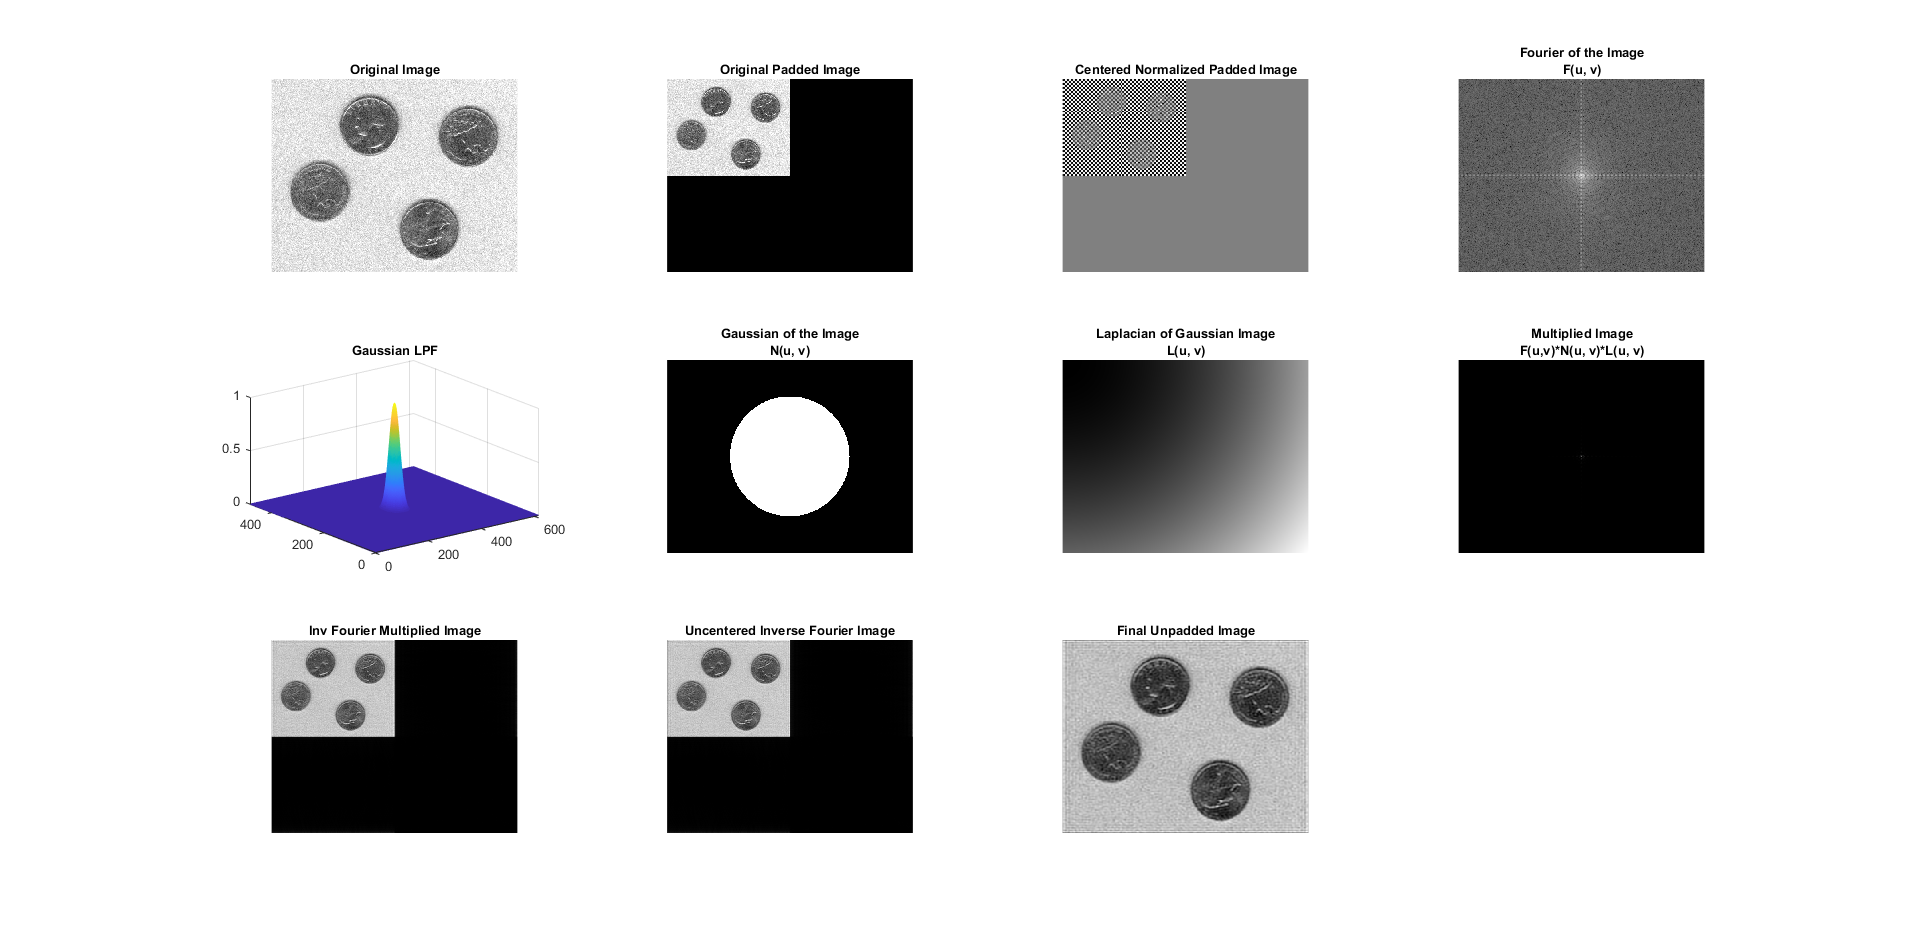
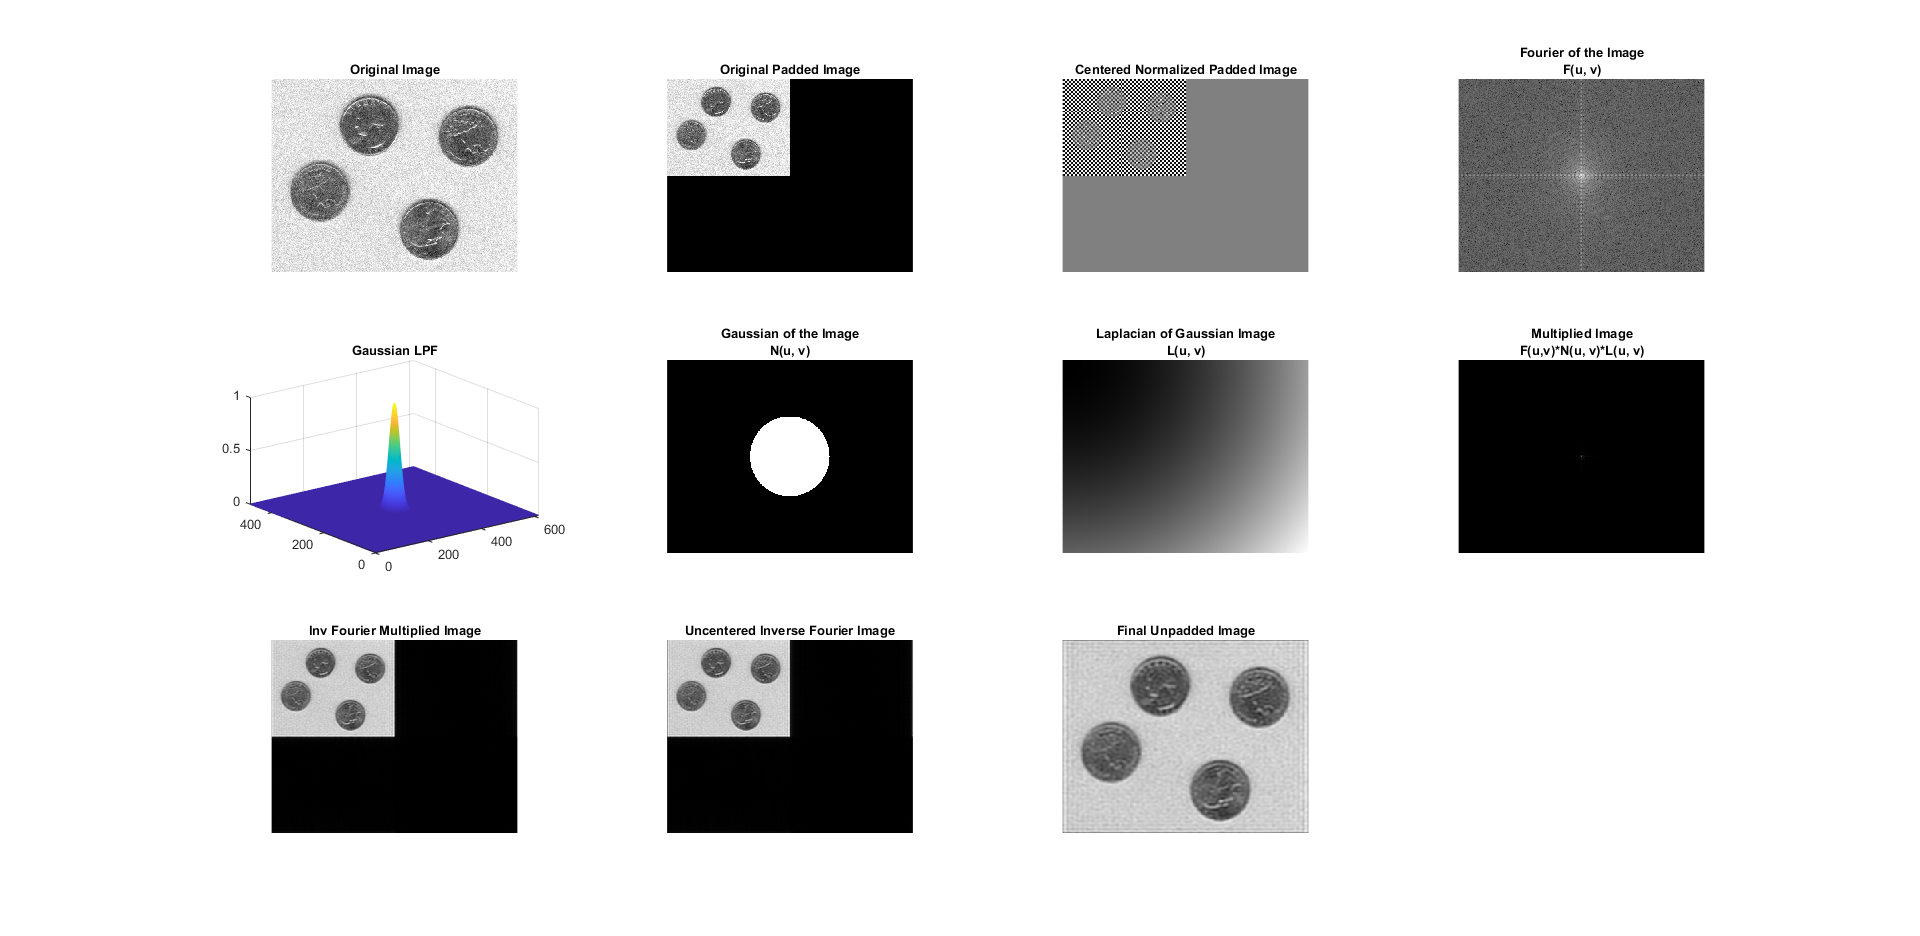
Add files via upload

diff --git a/Meola_ECE_5470_Homework_3.m b/Meola_ECE_5470_Homework_3.m
@@ -47,6 +47,7 @@ title('Original Image', 'FontSize', 8)
 [M_orig, N_orig] = size(f);
 
 
+
 % 2: Apply 2D zero padding to [orig_img]. Saves new padded image [f_padded].
 f_padded = padarray(f,[M_orig, N_orig], 0, 'post')
 [M_pad, N_pad] = size(f_padded);
@@ -55,6 +56,7 @@ f_padded = padarray(f,[M_orig, N_orig], 0, 'post')
 subplot(3, 4, 2)
 imshow(f_padded );
 title('Original Padded Image', 'FontSize', 8)
+
 
 
 % 3: Normalize the image intensity values from [0, 1].
@@ -122,13 +124,14 @@ subplot(3, 4, 5);
    
 % Allocate space for image:
 N = zeros(size(F));
+D = zeros(size(F));
    
 % Loop over all rows and columns:
 for ii=1:M_pad;
     for jj=1:N_pad;
         % Get D(u,v) value, distance:
-        D = sqrt((ii-M_pad/2)^2+(jj-N_pad/2)^2);
-        if D <= 150
+        D(ii, jj) = sqrt((ii-M_pad/2)^2+(jj-N_pad/2)^2);
+        if D(ii,jj) <= 100
             new_pixel =1;
         else
             new_pixel =0;
@@ -154,8 +157,8 @@ L = zeros(size(N));
 % Loop over all rows and columns:
 for ii=1:M_pad;
     for jj=1:N_pad;
-        D = sqrt((ii)^2+(jj)^2);
-        new_pixel =-4*pi^2*(D^2);
+        DL = sqrt((ii)^2+(jj)^2);
+        new_pixel =-4*pi^2*(DL^2);
         % Save new pixel value in centered image:
         L(ii,jj)=new_pixel;
      end
@@ -165,6 +168,7 @@ end
 subplot(3, 4, 7)
 imshow(abs(L), []);
 title({'Laplacian of Gaussian Image','L(u, v)'}, 'FontSize', 8)
+
 
 
 % 8: Multiplies F(u,v)*N(u,v)*L(u,v) to get resulting image [multiplied_img].
@@ -187,10 +191,11 @@ imshow(abs(M), []);
 title({'Multiplied Image','F(u,v)*N(u, v)*L(u, v)' }, 'FontSize', 8)
 
 
+
 % 9: Gets the inverse Fourier [inv_M] of the mutliplied image, [M].
 % F^-1{ F(u,v)*N(u,v)*L(u,v) }
 
-inv_M = ifft2(M);
+inv_M = ifft2(double(M));
 
 % Display result:
 subplot(3, 4, 9)
@@ -220,7 +225,7 @@ end
 
 % Display result:
 subplot(3, 4, 10)
-uncentered = abs(uncentered);
+uncentered = mat2gray(abs(uncentered));
 imshow(uncentered, []);
 title('Uncentered Inverse Fourier Image', 'FontSize', 8)
 
@@ -230,13 +235,14 @@ title('Uncentered Inverse Fourier Image', 'FontSize', 8)
 
 % Only keep original size from padded image:
 unpadded = uncentered(1:M_orig,1:N_orig);
-unpadded = mat2gray(unpadded)
+%unpadded = mat2gray(unpadded)
 
 % Display result:
 subplot(3, 4, 11)
-unpadded = 255*unpadded;
-imshow(unpadded, [])
+unpadded = abs(unpadded);
+imshow(unpadded)
 title('Final Unpadded Image', 'FontSize', 8)
+
 
 
 % 12: Save final subplots of all results from parts 1-11. 
@@ -244,6 +250,6 @@ saveas(gcf,'Results_Figure.png')
 
 % Save output image:
 figure(2);
-imshow(abs(unpadded), []);
+imshow((unpadded));
 saveas(gcf, 'output_img.png');
 
